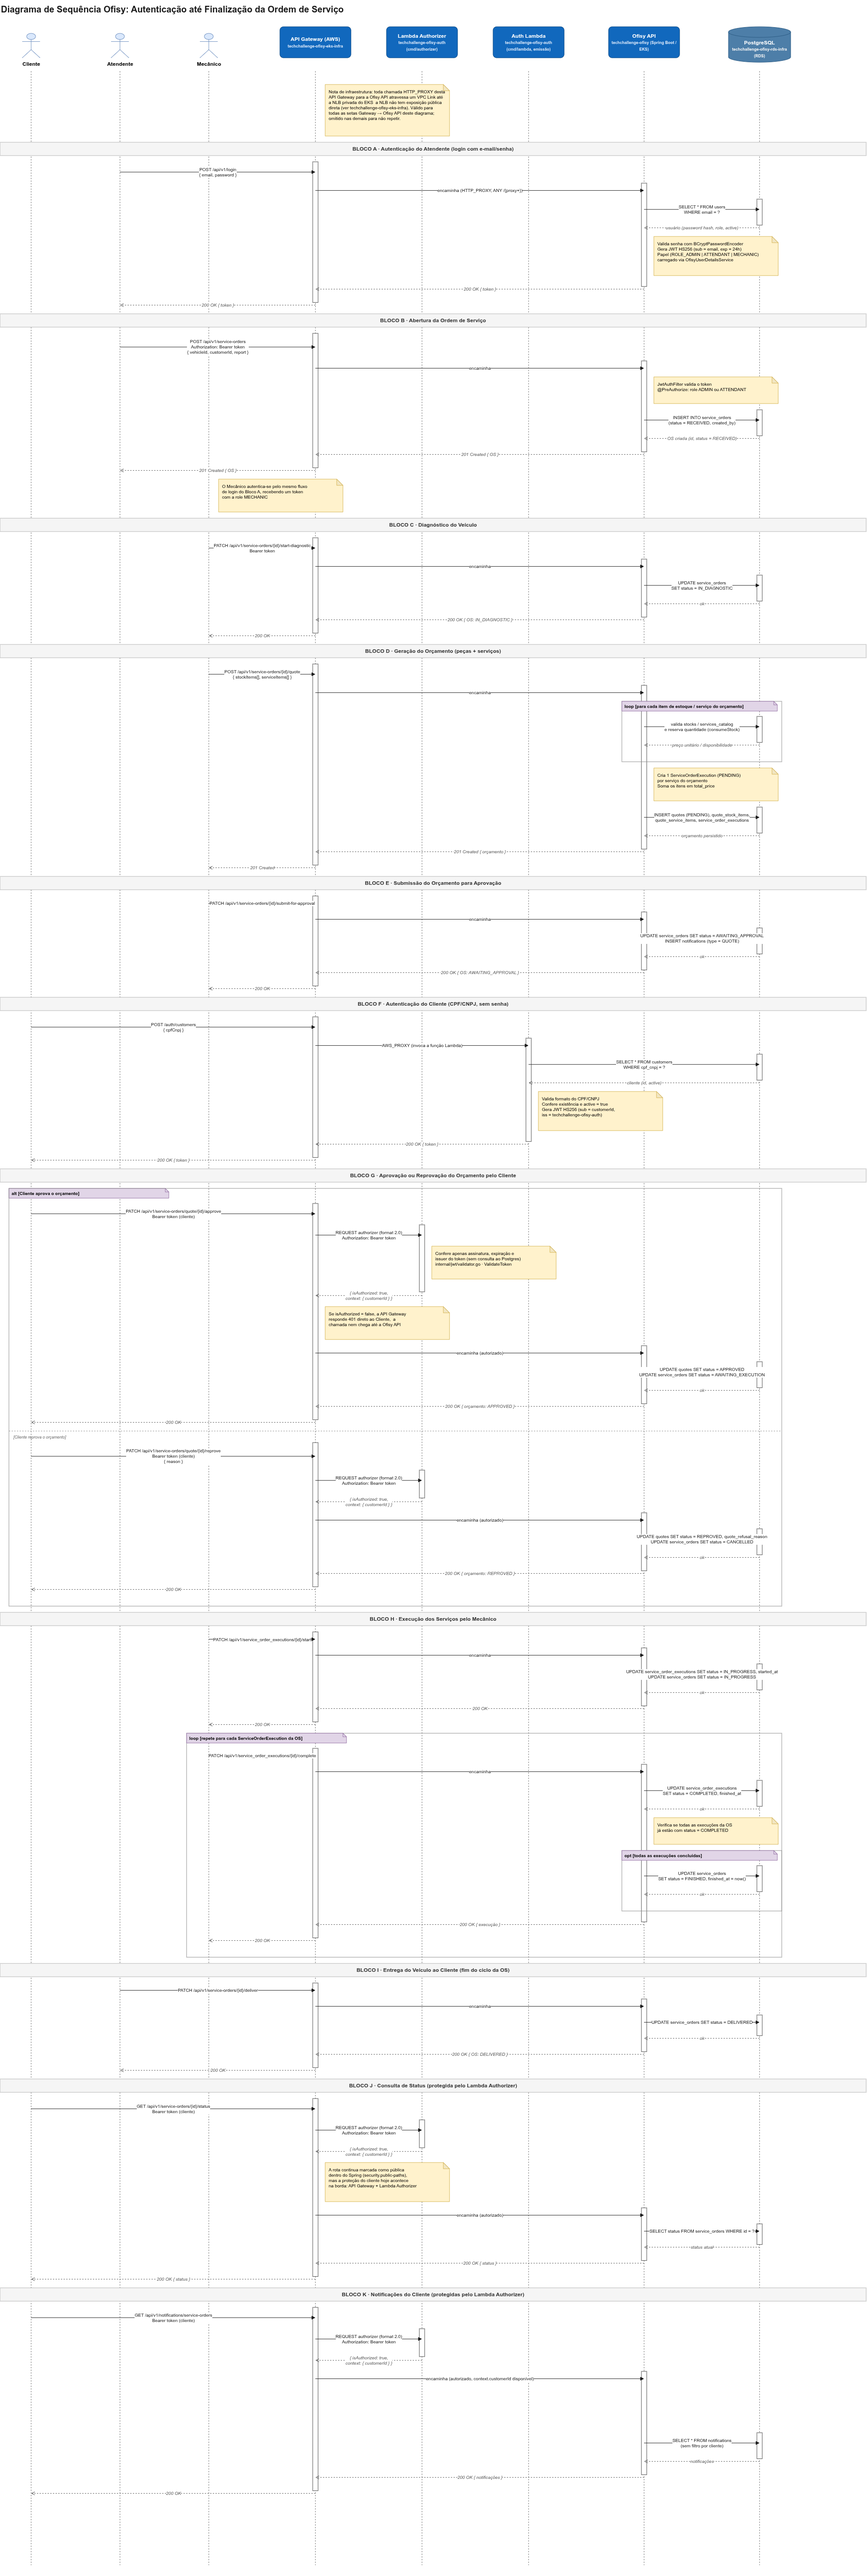
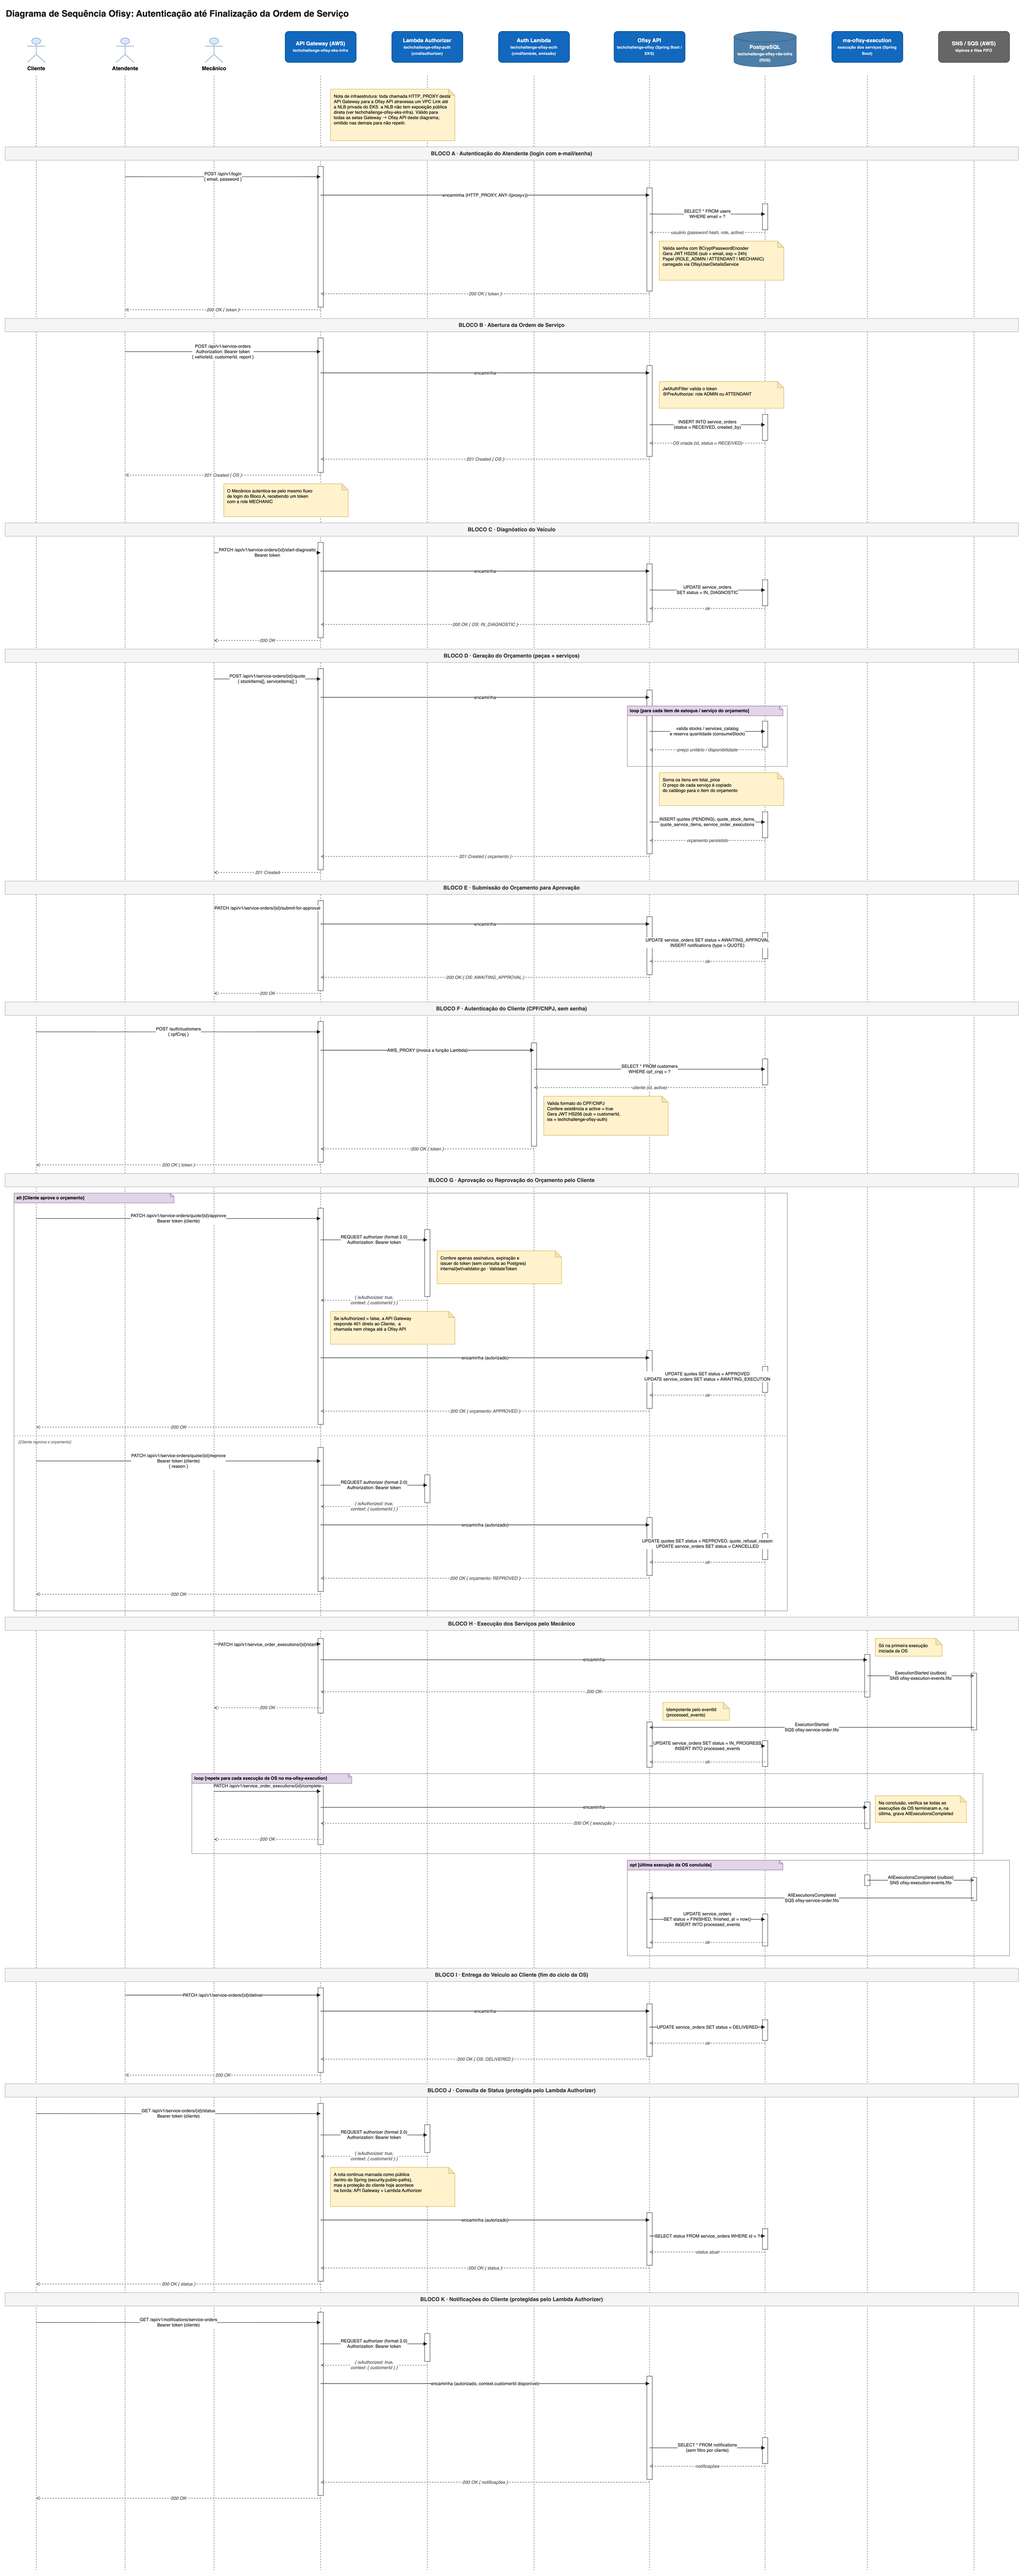
docs: documentar a integração por eventos com o ms-ofisy-execution

diff --git a/docs/MESSAGING.md b/docs/MESSAGING.md
@@ -12,18 +12,20 @@ A estrutura é a mesma do `ms-ofisy-execution`: mesmo envelope, mesmo outbox e m
 flowchart LR
     app[core] -->|outbox + publisher| topic[(SNS<br/>ofisy-service-order-events.fifo)]
     topic -.->|só local, raw delivery| inspect[(SQS<br/>ofisy-service-order-events-inspect.fifo)]
+    execution[(SNS<br/>ofisy-execution-events.fifo)] -->|filtro por type| queue
     queue[(SQS<br/>ofisy-service-order.fifo)] --> app
     queue -->|após 5 recebimentos| dlq[(SQS<br/>ofisy-service-order-dlq.fifo)]
 ```
 
-| Recurso          | Nome                                      | Observação                                                            |
-|------------------|-------------------------------------------|-----------------------------------------------------------------------|
-| Tópico           | `ofisy-service-order-events.fifo`         | Tópico do core, configurado em `ofisy.messaging.topics.service-order` |
-| Fila             | `ofisy-service-order.fifo`                | Configurada em `ofisy.messaging.queues.service-order`                 |
-| DLQ              | `ofisy-service-order-dlq.fifo`            | `RedrivePolicy` com `maxReceiveCount=5`                               |
-| Fila de inspeção | `ofisy-service-order-events-inspect.fifo` | Só local. Assinada no tópico do core para ver o que foi publicado     |
+| Recurso          | Nome                                      | Observação                                                                                             |
+|------------------|-------------------------------------------|--------------------------------------------------------------------------------------------------------|
+| Tópico           | `ofisy-service-order-events.fifo`         | Tópico do core, configurado em `ofisy.messaging.topics.service-order`                                  |
+| Fila             | `ofisy-service-order.fifo`                | Configurada em `ofisy.messaging.queues.service-order`                                                  |
+| DLQ              | `ofisy-service-order-dlq.fifo`            | `RedrivePolicy` com `maxReceiveCount=5`                                                                |
+| Fila de inspeção | `ofisy-service-order-events-inspect.fifo` | Só local. Assinada no tópico do core para ver o que foi publicado                                      |
+| Tópico assinado  | `ofisy-execution-events.fifo`             | Tópico do `ms-ofisy-execution`. A fila do core recebe só `ExecutionStarted` e `AllExecutionsCompleted` |
 
-Ainda não há assinaturas da fila em tópicos de outros serviços: elas entram junto com o primeiro handler de cada evento.
+A fila do core assina o tópico `ofisy-execution-events.fifo`, do `ms-ofisy-execution`, com `RawMessageDelivery=true` e `FilterPolicy` por `type` no corpo da mensagem (`FilterPolicyScope=MessageBody`), recebendo só `ExecutionStarted` e `AllExecutionsCompleted`. Os eventos de outros serviços entram da mesma forma, junto com o primeiro handler de cada um.
 
 Localmente, tudo é criado pelo `localstack/init/ready.d/01-messaging.sh`, que roda quando o LocalStack sobe (pelo `compose.yaml`, pelo `compose.db.yaml` e nos testes de integração). Com `queue-not-found-strategy: fail`, a aplicação não inicia se a fila não existir.
 
@@ -55,15 +57,26 @@ Todo evento segue o mesmo envelope (`adapters/listeners/dto/EventEnvelope.java`)
 
 ### Eventos consumidos
 
-| Evento | Produtor | Efeito |
-|--------|----------|--------|
-| —      | —        | —      |
+| Evento                   | Produtor             | Handler                         | Efeito                                                                                        |
+|--------------------------|----------------------|---------------------------------|-----------------------------------------------------------------------------------------------|
+| `ExecutionStarted`       | `ms-ofisy-execution` | `ExecutionStartedHandler`       | Move a OS de `AWAITING_EXECUTION` para `IN_PROGRESS`                                          |
+| `AllExecutionsCompleted` | `ms-ofisy-execution` | `AllExecutionsCompletedHandler` | Move a OS de `IN_PROGRESS` para `FINISHED`                                                    |
+
+Os dois eventos têm payload `{}`. O tratamento depende do status em que a OS está quando o evento chega:
+
+- **No status esperado**: aplica a transição e registra o `eventId` em `processed_events`.
+- **Já à frente do evento** (`IN_PROGRESS` ou status final para o `ExecutionStarted`; `FINISHED`, `DELIVERED` ou `CANCELLED` para o `AllExecutionsCompleted`): só registra o evento, que é confirmado sem mudar a OS.
+- **`AllExecutionsCompleted` com a OS ainda em `AWAITING_EXECUTION`** (o `ExecutionStarted` se perdeu, por exemplo na DLQ): aplica as duas transições, `IN_PROGRESS` e `FINISHED`.
+- **Atrás do evento** (antes de `AWAITING_EXECUTION`): a transição é inválida, a exceção impede o ack e a mensagem volta para a fila até a OS alcançar o status ou, depois de 5 recebimentos, ir para a DLQ.
+- **OS inexistente**: a mensagem vai para a DLQ de propósito, porque indica inconsistência entre os serviços.
 
 ### Eventos publicados
 
-| Evento | Quando é publicado | Quem reage |
-|--------|--------------------|------------|
-| —      | —                  | —          |
+| Evento                  | Quando é publicado                             | Quem reage                                                         |
+|-------------------------|------------------------------------------------|--------------------------------------------------------------------|
+| `ServiceOrderCancelled` | Ao cancelar a OS (`CancelServiceOrderService`) | `ms-ofisy-execution` cancela as execuções pendentes e em andamento |
+
+O payload é `{}`.
 
 ---
 
@@ -146,12 +159,12 @@ As entidades de `outbox_events` e `processed_events` sempre inserem no `save` (`
 
 Os testes de integração (`integration/IntegrationTestBase`) sobem um LocalStack via Testcontainers com o mesmo `01-messaging.sh` do compose, então a fila, a DLQ e o tópico são os mesmos do ambiente local. A espera é pelo log `Ready.`, que o LocalStack imprime depois que o init script termina.
 
-| Teste                          | O que cobre                                                                              |
-|--------------------------------|------------------------------------------------------------------------------------------|
-| `OutboxEventPublisherTest`     | Envelope FIFO, ordem, `published_at` e o salto dos eventos da OS que falhou              |
-| `ServiceOrderEventsListenerTest` | Despacho pelo `type`, tipo sem handler, falha do handler e `type` duplicado entre handlers |
-| `OutboxEventPublisherIT`       | Evento gravado no outbox chega na fila de inspeção e fica com `published_at`             |
-| `ServiceOrderEventsListenerIT` | Evento sem handler é confirmado e sai da fila                                            |
+| Teste                            | O que cobre                                                                                                                |
+|----------------------------------|----------------------------------------------------------------------------------------------------------------------------|
+| `OutboxEventPublisherTest`       | Envelope FIFO, ordem, `published_at` e o salto dos eventos da OS que falhou                                                |
+| `ServiceOrderEventsListenerTest` | Despacho pelo `type`, tipo sem handler, falha do handler e `type` duplicado entre handlers                                 |
+| `OutboxEventPublisherIT`         | Evento gravado no outbox chega na fila de inspeção e fica com `published_at`                                               |
+| `ServiceOrderEventsListenerIT`   | Evento sem handler é confirmado, `ExecutionStarted` repetido move a OS uma vez só e `AllExecutionsCompleted` finaliza a OS |
 
 ---
 
@@ -165,14 +178,14 @@ docker exec ofisy-local-localstack awslocal sqs receive-message \
   --queue-url http://localhost:4566/000000000000/ofisy-service-order-events-inspect.fifo \
   --max-number-of-messages 10
 
-# enviar um evento direto para a fila do core
-docker exec ofisy-local-localstack awslocal sqs send-message \
-  --queue-url http://localhost:4566/000000000000/ofisy-service-order.fifo \
-  --message-group-id c3d4e5f6-a7b8-9012-cdef-123456780001 \
+# simular o ms-ofisy-execution publicando no tópico dele (a OS ...780007 do seed está em AWAITING_EXECUTION)
+docker exec ofisy-local-localstack awslocal sns publish \
+  --topic-arn arn:aws:sns:us-east-1:000000000000:ofisy-execution-events.fifo \
+  --message-group-id c3d4e5f6-a7b8-9012-cdef-123456780007 \
   --message-deduplication-id $(uuidgen) \
-  --message-body '{"eventId":"'$(uuidgen)'","type":"ExecutionStarted","serviceOrderId":"c3d4e5f6-a7b8-9012-cdef-123456780001","occurredAt":"2026-10-17T13:00:00Z","payload":{}}'
+  --message '{"eventId":"'$(uuidgen)'","type":"ExecutionStarted","serviceOrderId":"c3d4e5f6-a7b8-9012-cdef-123456780007","occurredAt":"2026-10-17T13:00:00Z","payload":{}}'
 ```
 
-Sem handler para `ExecutionStarted`, o log mostra `ServiceOrderEventsListener.onMessage >> ignoring event ...` e a mensagem sai da fila.
+O log mostra `ExecutionStartedHandler.handle >> event ... handled for service order ...`, a OS vai para `IN_PROGRESS` e o `eventId` aparece em `processed_events`. Um `type` sem handler gera `ServiceOrderEventsListener.onMessage >> ignoring event ...` e a mensagem sai da fila.
 
 > O LocalStack do core e o do `ms-ofisy-execution` usam a porta `4566`, então só um deles pode ficar no ar por vez. Para exercitar a comunicação entre os dois serviços, os dois precisam apontar para o mesmo LocalStack, com os tópicos e as assinaturas de ambos.

diff --git a/docs/SEQUENCE-DIAGRAM.md b/docs/SEQUENCE-DIAGRAM.md
@@ -3,8 +3,8 @@
 Diagrama de sequência que documenta o fluxo de ponta a ponta da aplicação Ofisy: desde a autenticação de cada ator até a finalização da ordem de serviço (OS).
 
 Três atores envolvidos: **Cliente**, **Atendente** e **Mecânico**
-Quatro componentes de infraestrutura envolvidos: o **API Gateway**, a **Lambda de autenticação** (`techchallenge-ofisy-auth`), a **API Ofisy** (`techchallenge-ofisy`, rodando no EKS) e o **PostgreSQL** (RDS, `techchallenge-ofisy-rds-infra`). 
-O fluxo está organizado em 10 blocos sequenciais: login do Atendente, abertura da OS, diagnóstico, geração de orçamento, submissão para aprovação, autenticação do Cliente via CPF/CNPJ, **aprovação ou reprovação do orçamento pelo Cliente**, execução dos serviços, finalização automática da OS (quando todas as execuções ficam `COMPLETED`) e entrega do veículo.
+Seis componentes de infraestrutura envolvidos: o **API Gateway**, a **Lambda de autenticação** (`techchallenge-ofisy-auth`), a **API Ofisy** (`techchallenge-ofisy`, rodando no EKS), o **PostgreSQL** (RDS, `techchallenge-ofisy-rds-infra`), o **`ms-ofisy-execution`** e o **SNS/SQS**, por onde os eventos trafegam entre os dois serviços.
+O fluxo está organizado em 10 blocos sequenciais: login do Atendente, abertura da OS, diagnóstico, geração de orçamento, submissão para aprovação, autenticação do Cliente via CPF/CNPJ, **aprovação ou reprovação do orçamento pelo Cliente**, execução dos serviços no `ms-ofisy-execution`, finalização automática da OS (a Ofisy API consome `ExecutionStarted` e `AllExecutionsCompleted` e atualiza o status) e entrega do veículo.
 Cada bloco indica o endpoint chamado, o componente responsável e a interação com o banco de dados.
 
 ![Diagrama de Sequência](resources/sequence-diagram.png)
